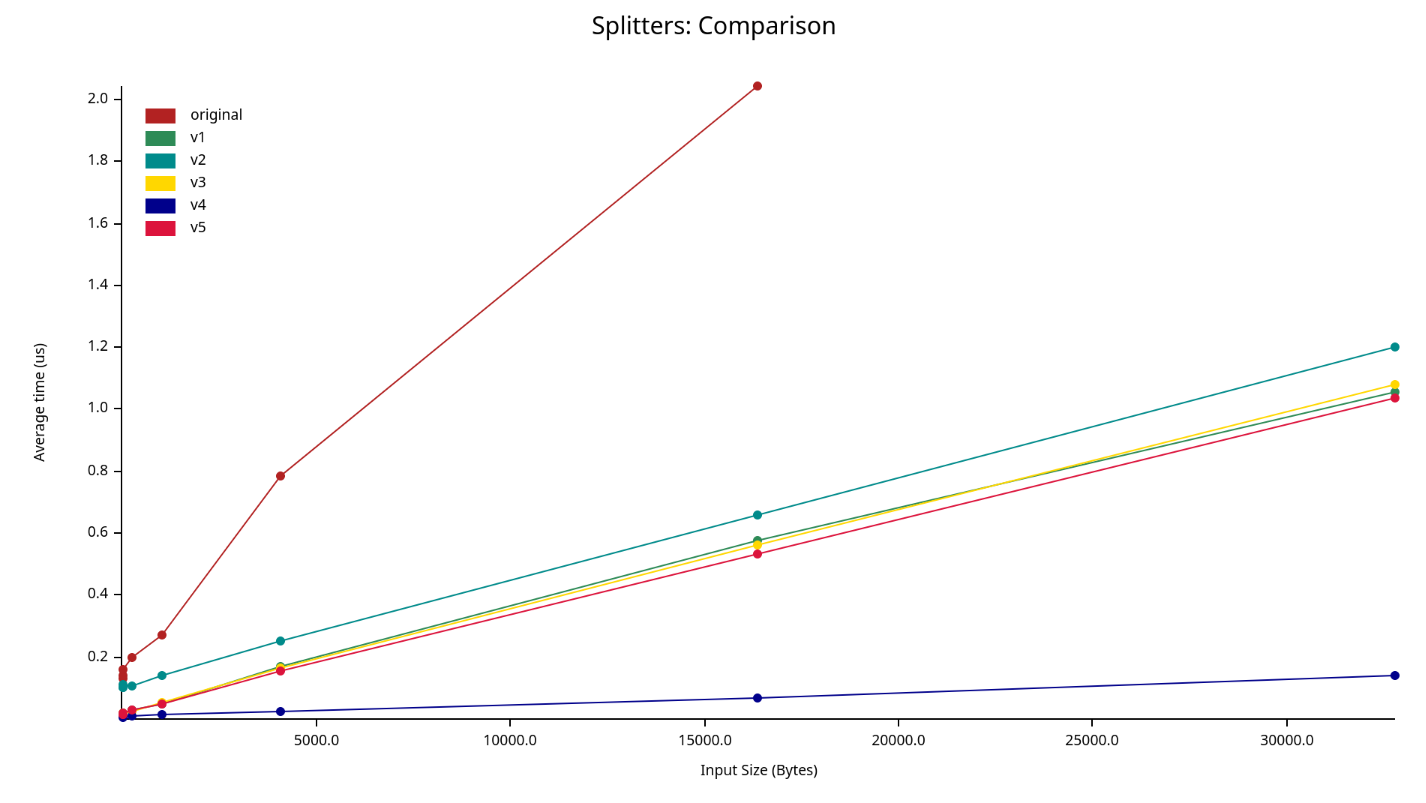
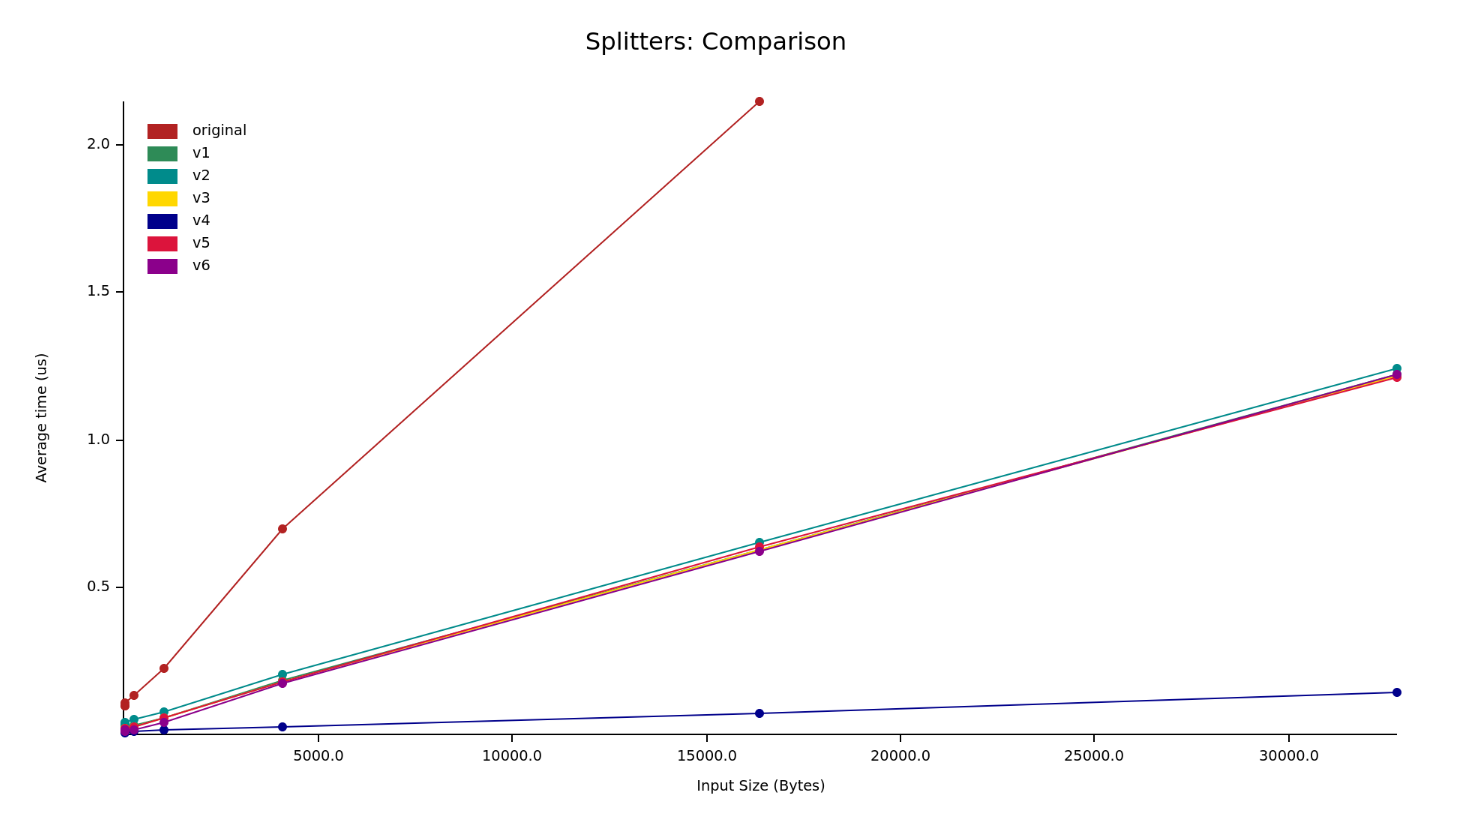
adds benchmark using StringZilla

diff --git a/src/lib.rs b/src/lib.rs
@@ -58,6 +58,15 @@ pub fn remove_through_first_char_variant_5(s: &str, ch: char) -> &str {
     }
 }
 
+use stringzilla::StringZilla;
+pub fn remove_through_first_char_variant_6(s: &str, ch: char) -> &str {
+    // https://github.com/ashvardanian/StringZilla?tab=readme-ov-file#quick-start-rust-
+    match s.sz_find(&[ch as u8]) {
+        None => s, // not found => return the whole string
+        Some(pos) => &s[pos + 1..],
+    }
+}
+
 #[cfg(test)]
 mod test {
     use super::*;
@@ -89,5 +98,6 @@ mod test {
         do_test(remove_through_first_char_variant_3);
         do_test(remove_through_first_char_variant_4);
         do_test(remove_through_first_char_variant_5);
+        do_test(remove_through_first_char_variant_6);
     }
 }

diff --git a/benches/splitters.rs b/benches/splitters.rs
@@ -34,6 +34,7 @@ pub fn criterion_benchmark(c: &mut Criterion) {
         ("v3", remove_through_first_char_variant_3),
         ("v4", remove_through_first_char_variant_4),
         ("v5", remove_through_first_char_variant_5),
+        ("v6", remove_through_first_char_variant_6),
     ];
 
     for &len in &[4, 8, 16, 256, KB, 4 * KB, 16 * KB, 32 * KB] {
